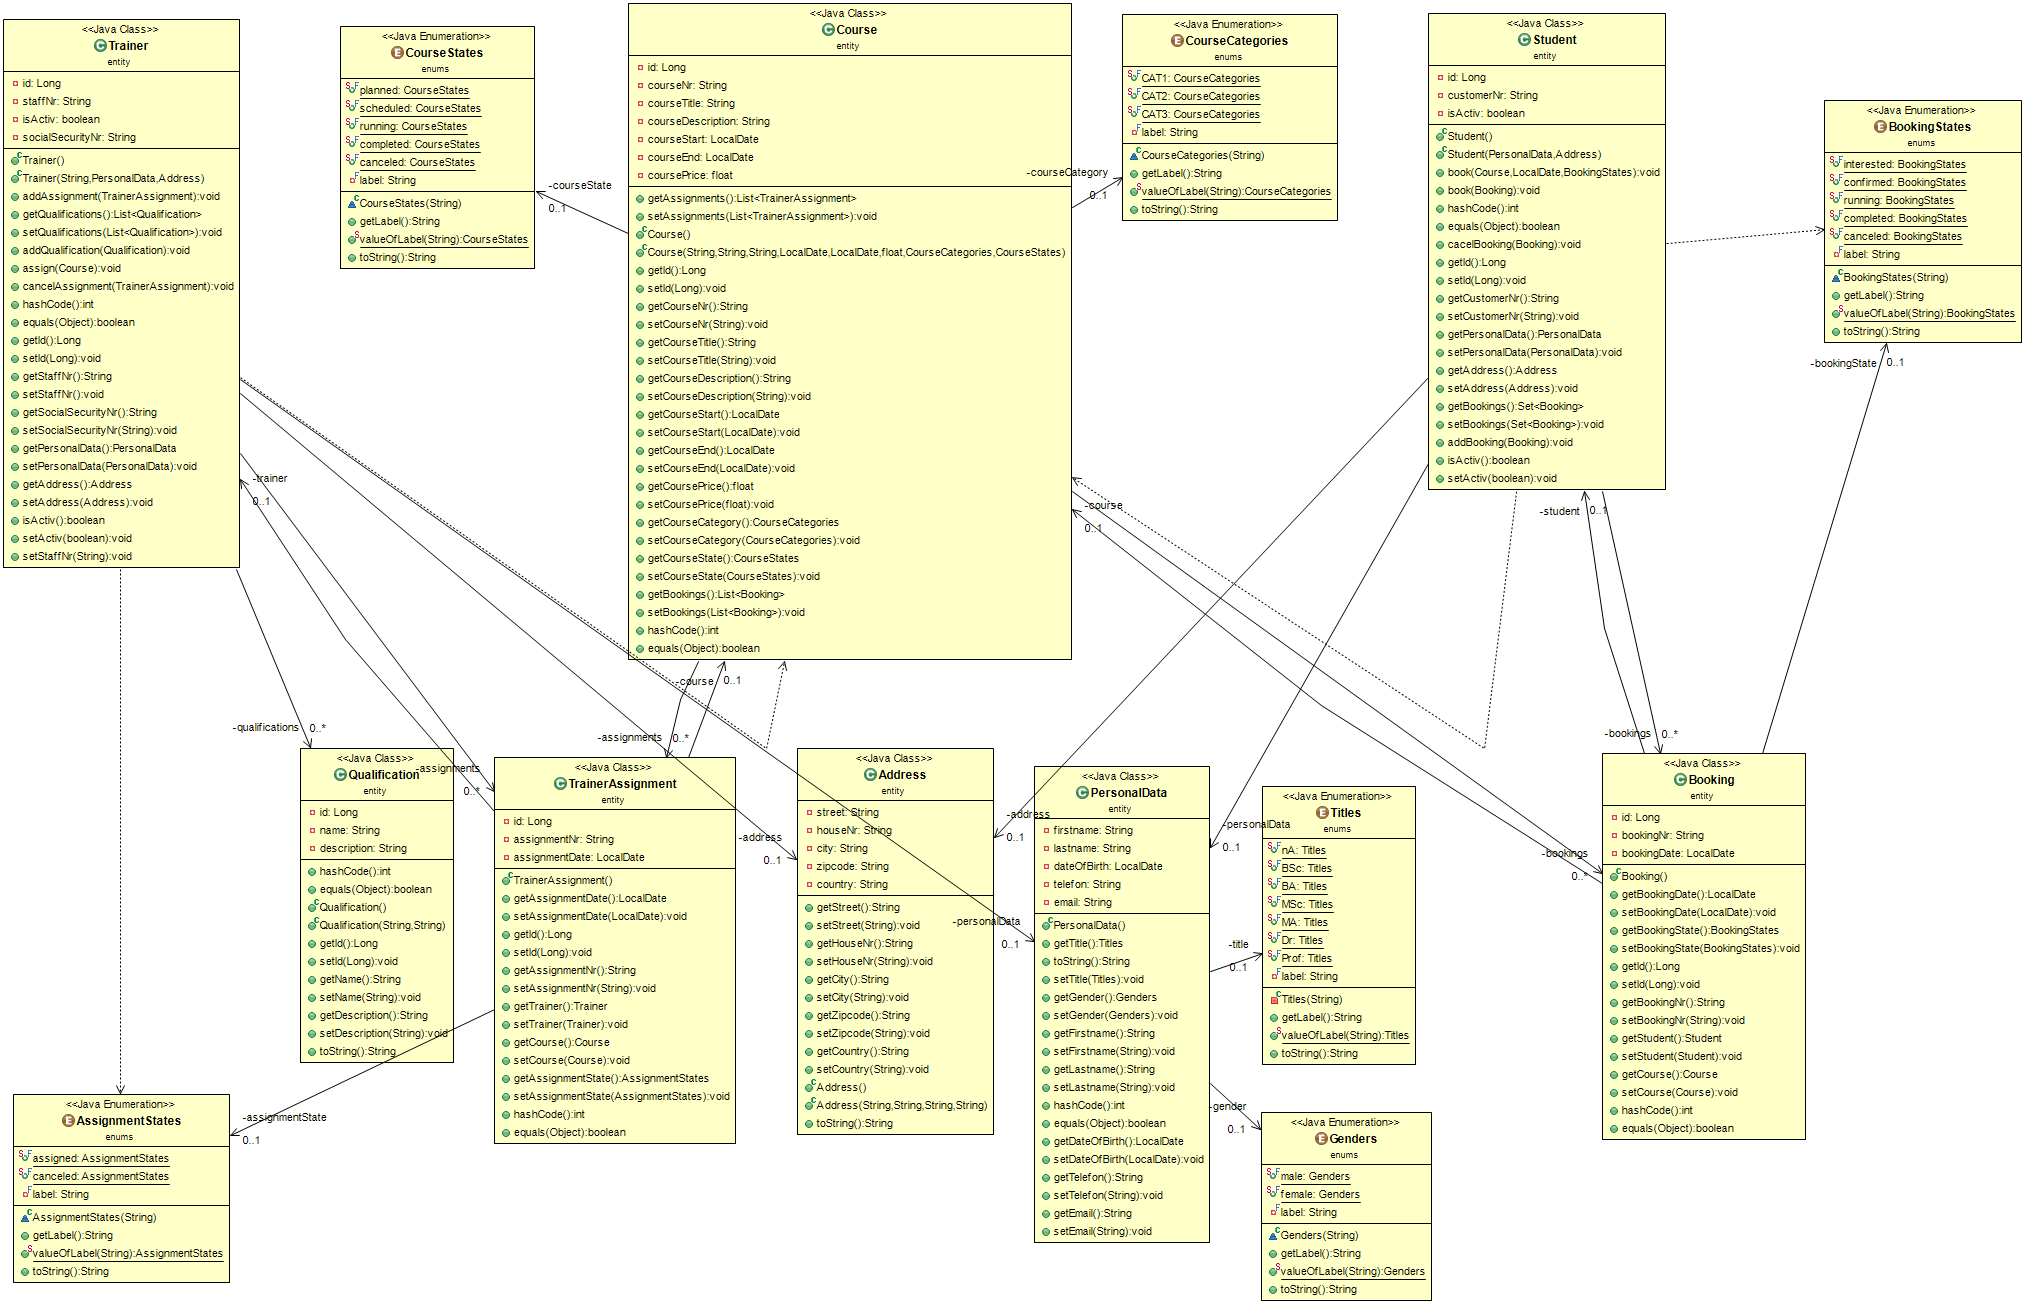
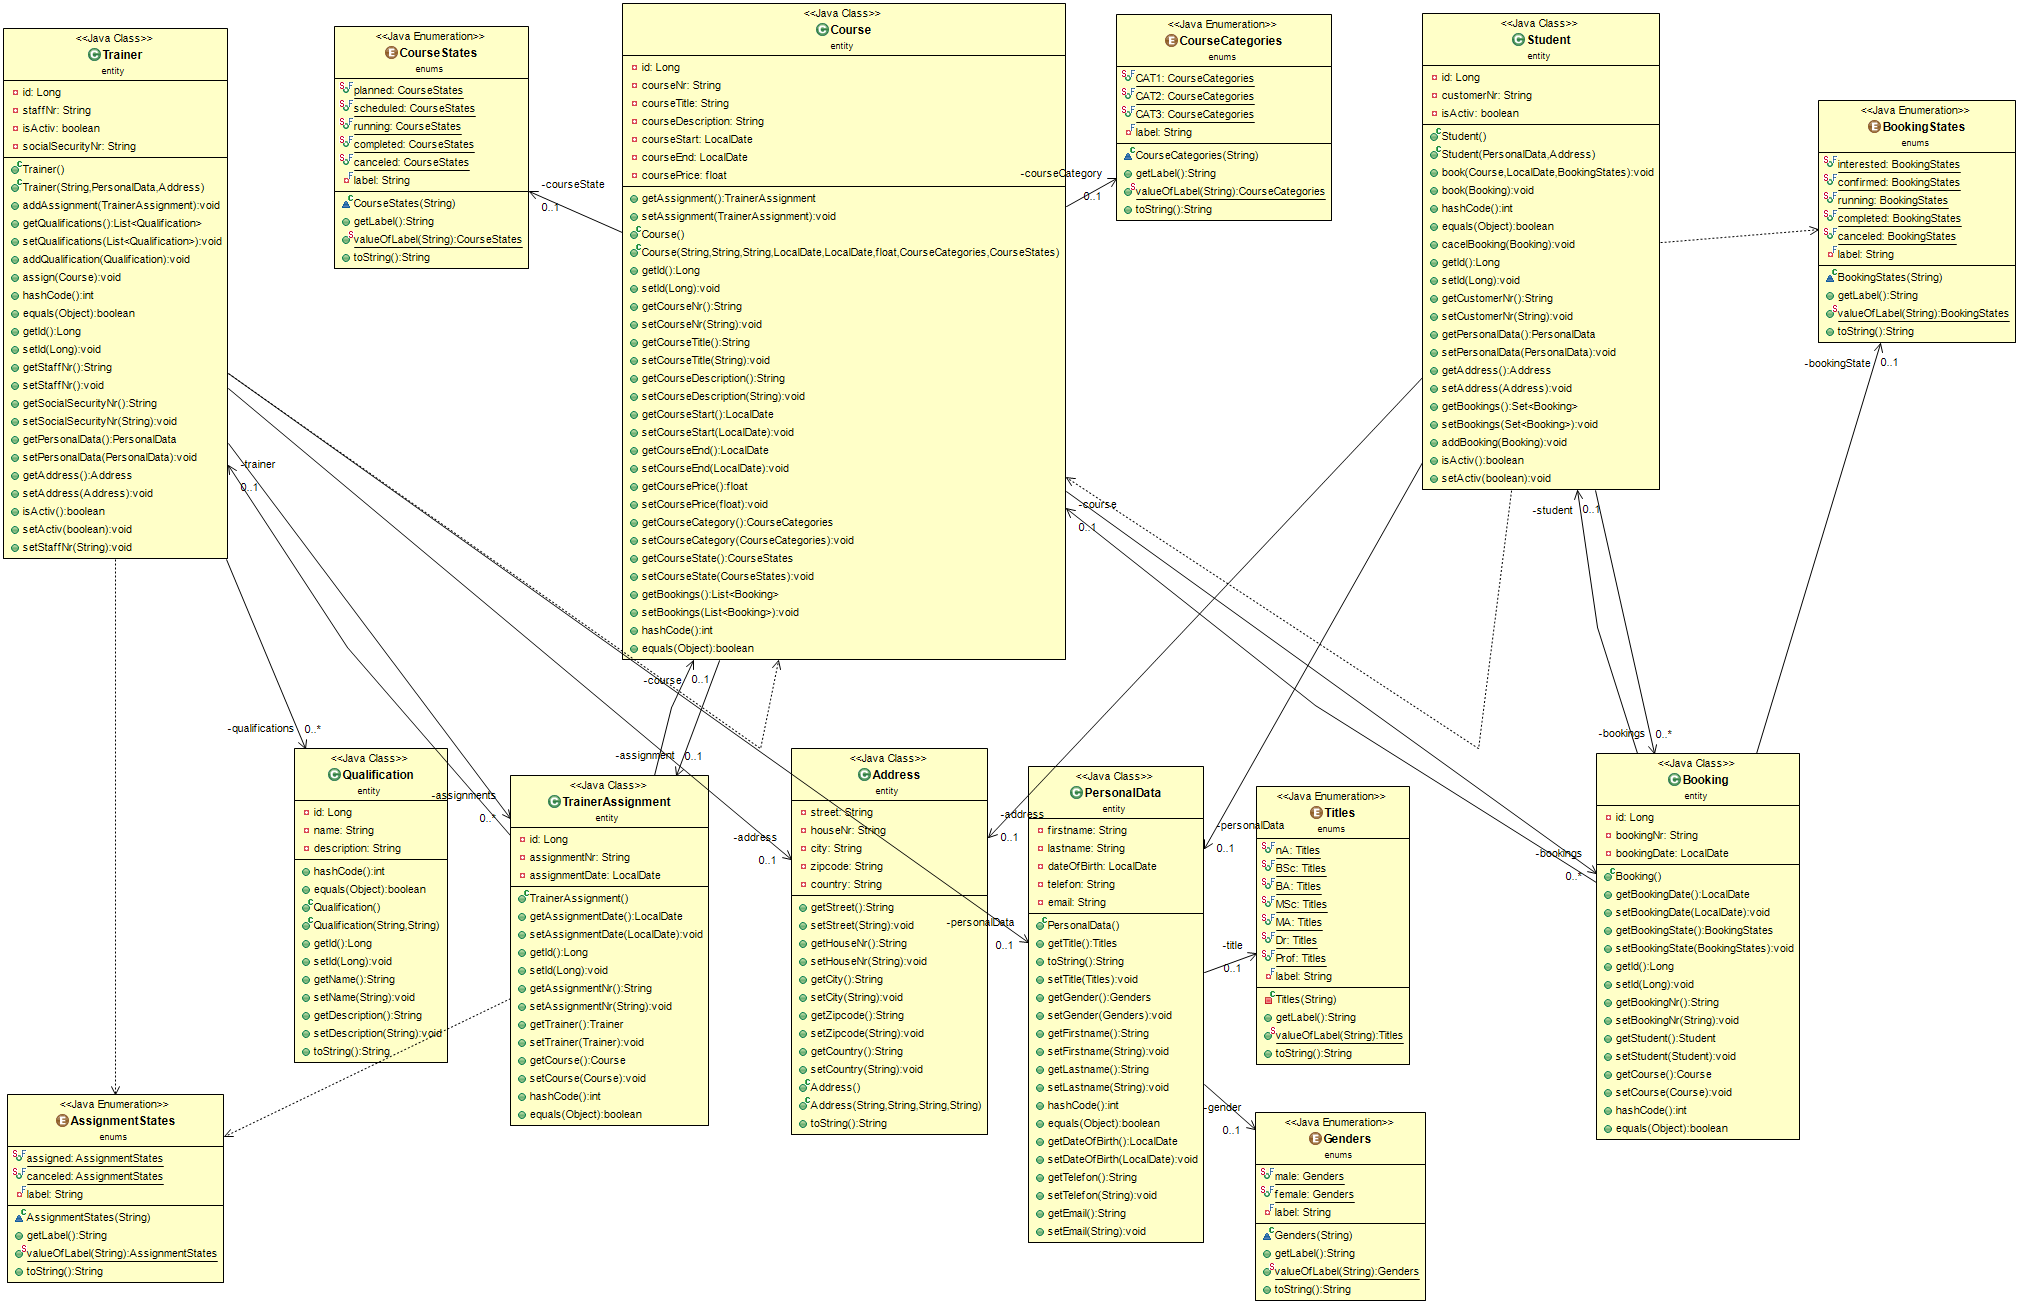
Ergänzungen bezüglich der Trainerzuordnungen. Kurs-Trainer Beziehung OneToOne Statt OneToMany

diff --git a/Finalproject JavaFX/src/application/AssignmentController.java b/Finalproject JavaFX/src/application/AssignmentController.java
@@ -51,7 +51,7 @@ public class AssignmentController implements Initializable{
     @FXML    private Label courseNrLabel;
     @FXML    private Label courseNameLabel;
     @FXML    private Label assignmentTrainerLabel;
-    @FXML    private ComboBox<AssignmentStates> assignmentStateComboBox;
+//    @FXML    private ComboBox<AssignmentStates> assignmentStateComboBox;
     @FXML    private TextField assignmentTrainerTextfield;
     @FXML    private TableView<Trainer> assignmentTrainerTableView;
     @FXML    private TableColumn<Trainer, String> trainerStaffNrCol;
@@ -70,7 +70,7 @@ public class AssignmentController implements Initializable{
     	currentCourse = course;
     	courseNrLabel.setText(currentCourse.getCourseNr());
     	courseNameLabel.setText(currentCourse.getCourseTitle());
-    	assignmentStateComboBox.setItems(assignmentStates);
+//    	assignmentStateComboBox.setItems(assignmentStates);
     	DAO trainerDAO = new DAO();
     	
     	assignmentTrainerTableViewData.setAll(trainerDAO.trainerList().filtered(t->t.isActiv()));
@@ -103,9 +103,67 @@ public class AssignmentController implements Initializable{
     	currentAssignment = assignment;
     	courseNrLabel.setText(currentAssignment.getCourse().getCourseNr());
     	courseNameLabel.setText(currentAssignment.getCourse().getCourseTitle());
-    	assignmentStateComboBox.setItems(assignmentStates);
-    	assignmentStateComboBox.setValue(currentAssignment.getAssignmentState());
-    	assignmentTrainerLabel.setText(currentAssignment.getTrainer().getPersonalData().getFirstname()+" "+ currentAssignment.getTrainer().getPersonalData().getLastname());
+//    	assignmentStateComboBox.setItems(assignmentStates);
+//    	assignmentStateComboBox.setValue(currentAssignment.getAssignmentState());
+    	DAO trainerDAO = new DAO();
+    	
+    	assignmentTrainerTableViewData.setAll(trainerDAO.trainerList().filtered(t->t.isActiv()));
+    	trainerStaffNrCol.setCellValueFactory(cellData -> new SimpleStringProperty(cellData.getValue().getStaffNr()));
+    	trainerFirstnameCol.setCellValueFactory(cellData -> new SimpleStringProperty(cellData.getValue().getPersonalData().getFirstname()));
+    	trainerLastnameCol.setCellValueFactory(cellData -> new SimpleStringProperty(cellData.getValue().getPersonalData().getLastname()));
+    	trainerBirthdayCol.setCellValueFactory(cellData -> new SimpleObjectProperty<LocalDate>(cellData.getValue().getPersonalData().getDateOfBirth()));
+    	trainerBirthdayCol.setCellFactory((TableColumn<Trainer, LocalDate> column) -> {
+			   return new TableCell<Trainer, LocalDate>() {
+			      @Override
+			      protected void updateItem(LocalDate item, boolean empty) {
+			         super.updateItem(item, empty);
+			         if (item == null || empty) {
+			            setText(null);
+			         } else {
+			            setText(item.format(DateTimeFormatter.ofPattern("dd.MM.yyyy")));
+			         }
+			      }
+			   };
+			});
+    	trainerPhoneCol.setCellValueFactory(cellData -> new SimpleStringProperty(cellData.getValue().getPersonalData().getTelefon()));
+    	assignmentTrainerTableView.getSelectionModel().select(assignment.getTrainer());
+		assignmentTrainerTableView.setItems(assignmentTrainerTableViewData);
+		assignmentTrainerTextfield.textProperty().addListener((observable, oldValue, newValue) ->
+		assignmentTrainerTableView.setItems(filteredTrainerList(assignmentTrainerTableViewData, newValue)));
+    }
+    
+    @FXML
+    public void removeAssignment(TrainerAssignment assignment) {
+    	currentAssignment = assignment;
+    	courseNrLabel.setText(currentAssignment.getCourse().getCourseNr());
+    	courseNameLabel.setText(currentAssignment.getCourse().getCourseTitle());
+//    	assignmentStateComboBox.setItems(assignmentStates);
+//    	assignmentStateComboBox.setValue(currentAssignment.getAssignmentState());
+    	DAO trainerDAO = new DAO();
+    	
+    	assignmentTrainerTableViewData.setAll(trainerDAO.trainerList().filtered(t->t.isActiv()));
+    	trainerStaffNrCol.setCellValueFactory(cellData -> new SimpleStringProperty(cellData.getValue().getStaffNr()));
+    	trainerFirstnameCol.setCellValueFactory(cellData -> new SimpleStringProperty(cellData.getValue().getPersonalData().getFirstname()));
+    	trainerLastnameCol.setCellValueFactory(cellData -> new SimpleStringProperty(cellData.getValue().getPersonalData().getLastname()));
+    	trainerBirthdayCol.setCellValueFactory(cellData -> new SimpleObjectProperty<LocalDate>(cellData.getValue().getPersonalData().getDateOfBirth()));
+    	trainerBirthdayCol.setCellFactory((TableColumn<Trainer, LocalDate> column) -> {
+			   return new TableCell<Trainer, LocalDate>() {
+			      @Override
+			      protected void updateItem(LocalDate item, boolean empty) {
+			         super.updateItem(item, empty);
+			         if (item == null || empty) {
+			            setText(null);
+			         } else {
+			            setText(item.format(DateTimeFormatter.ofPattern("dd.MM.yyyy")));
+			         }
+			      }
+			   };
+			});
+    	trainerPhoneCol.setCellValueFactory(cellData -> new SimpleStringProperty(cellData.getValue().getPersonalData().getTelefon()));
+    	assignmentTrainerTableView.getSelectionModel().select(assignment.getTrainer());
+		assignmentTrainerTableView.setItems(assignmentTrainerTableViewData);
+		assignmentTrainerTextfield.textProperty().addListener((observable, oldValue, newValue) ->
+		assignmentTrainerTableView.setItems(filteredTrainerList(assignmentTrainerTableViewData, newValue)));
     }
     
     
@@ -136,19 +194,19 @@ public class AssignmentController implements Initializable{
     void assignmentSaveButtonAction(ActionEvent event) {
     	try {
 
-    		if(!assignmentTrainerTableView.getSelectionModel().isEmpty()&&!assignmentStateComboBox.getSelectionModel().isEmpty()) {
+    		if(!assignmentTrainerTableView.getSelectionModel().isEmpty()) {
     			if(currentAssignment==null) {
     	    		TrainerAssignment newAssignment = new TrainerAssignment();
     	    		newAssignment.setCourse(currentCourse);
     	    		newAssignment.setTrainer(assignmentTrainerTableView.getSelectionModel().getSelectedItem());
-    	    		newAssignment.setAssignmentState(assignmentStateComboBox.getSelectionModel().getSelectedItem());
+//    	    		newAssignment.setAssignmentState(assignmentStateComboBox.getSelectionModel().getSelectedItem());
     	    		newAssignment.setAssignmentDate(LocalDate.now());;	
     	        	DAO.newTrainerAssignment(newAssignment);
     	    	} else {
     	    		
-    	    		currentAssignment.setCourse(currentCourse);
+    	    		//currentAssignment.setCourse(currentCourse);
     	    		currentAssignment.setTrainer(assignmentTrainerTableView.getSelectionModel().getSelectedItem());
-    	    		currentAssignment.setAssignmentState(assignmentStateComboBox.getSelectionModel().getSelectedItem());;
+//    	    		currentAssignment.setAssignmentState(assignmentStateComboBox.getSelectionModel().getSelectedItem());;
     	    		DAO.updateTrainerAssignment(currentAssignment);
     	    	}
     			
@@ -162,10 +220,10 @@ public class AssignmentController implements Initializable{
 					assignmentTrainerTableView.setStyle("-fx-border-color: #B22222; ");
 					alert.setContentText(alert.getContentText()+"Einen Trainer muss ausgewählt werden\n");
 				}
-				if(assignmentStateComboBox.getSelectionModel().isEmpty()) {
-					assignmentStateComboBox.setStyle("-fx-border-color: #B22222; ");
-					alert.setContentText(alert.getContentText()+"Auftragsstatus muss ausgewählt werden\n");
-				}
+//				if(assignmentStateComboBox.getSelectionModel().isEmpty()) {
+//					assignmentStateComboBox.setStyle("-fx-border-color: #B22222; ");
+//					alert.setContentText(alert.getContentText()+"Auftragsstatus muss ausgewählt werden\n");
+//				}
 				
 				
 				alert.getDialogPane().setMinHeight(Region.USE_PREF_SIZE);

diff --git a/Finalproject JavaFX/src/application/AssignmentEditController.java b/Finalproject JavaFX/src/application/AssignmentEditController.java
@@ -66,7 +66,7 @@ public class AssignmentEditController implements Initializable{
     	courseNrLabel.setText(currentAssignment.getCourse().getCourseNr());
     	courseNameLabel.setText(currentAssignment.getCourse().getCourseTitle());
     	assignmentStateComboBox.setItems(assignmentStates);
-    	assignmentStateComboBox.setValue(currentAssignment.getAssignmentState());
+//    	assignmentStateComboBox.setValue(currentAssignment.getAssignmentState());
     	assignmentTrainerLabel.setText(currentAssignment.getTrainer().getPersonalData().getFirstname()+" "+ currentAssignment.getTrainer().getPersonalData().getLastname());
     }
     
@@ -83,7 +83,7 @@ public class AssignmentEditController implements Initializable{
     	try {
 
     		if(!assignmentStateComboBox.getSelectionModel().isEmpty()) {
-    	    		currentAssignment.setAssignmentState(assignmentStateComboBox.getSelectionModel().getSelectedItem());;
+//    	    		currentAssignment.setAssignmentState(assignmentStateComboBox.getSelectionModel().getSelectedItem());;
     	    		DAO.updateTrainerAssignment(currentAssignment);
     	    	    			
     			Stage stage = (Stage) saveAssignmentButton.getScene().getWindow();

diff --git a/Finalproject JavaFX/src/entity/Course.java b/Finalproject JavaFX/src/entity/Course.java
@@ -13,6 +13,7 @@ import javax.persistence.GenerationType;
 import javax.persistence.Id;
 import javax.persistence.NamedQuery;
 import javax.persistence.OneToMany;
+import javax.persistence.OneToOne;
 
 import enums.CourseCategories;
 import enums.CourseStates;
@@ -51,20 +52,20 @@ public class Course {
 	@OneToMany(mappedBy = "course", cascade = { CascadeType.PERSIST, CascadeType.REMOVE })
 	private List<Booking> bookings;
 	
-	@OneToMany(mappedBy = "course", cascade = { CascadeType.PERSIST, CascadeType.REMOVE })
-	private List<TrainerAssignment> assignments;
+	@OneToOne(mappedBy = "course", cascade = { CascadeType.PERSIST, CascadeType.REMOVE })
+	private TrainerAssignment assignment;
 /**
 	 * @return the assignments
 	 */
-	public List<TrainerAssignment> getAssignments() {
-		return assignments;
+	public TrainerAssignment getAssignment() {
+		return assignment;
 	}
 
 	/**
 	 * @param assignments the assignments to set
 	 */
-	public void setAssignments(List<TrainerAssignment> assignments) {
-		this.assignments = assignments;
+	public void setAssignment(TrainerAssignment assignment) {
+		this.assignment = assignment;
 	}
 
 	//	

diff --git a/Finalproject JavaFX/src/application/DAO.java b/Finalproject JavaFX/src/application/DAO.java
@@ -712,6 +712,29 @@ public class DAO {
 		
 	}
 	
+	public static void removeTrainerAssignment(TrainerAssignment trainerAssignment) throws SQLException {
+		EntityManagerFactory emf = Persistence.createEntityManagerFactory("verwasoft");
+		EntityManager em = emf.createEntityManager();
+		EntityTransaction txn = em.getTransaction();
+		//Booking newBooking = ;
+		
+		try {
+			txn.begin();
+			TrainerAssignment assignment = em.find(TrainerAssignment.class, trainerAssignment.getId());
+			em.remove(assignment);
+			
+			txn.commit();
+			
+		}	catch(Exception e) {
+    			if(txn != null) { txn.rollback(); }
+    			e.printStackTrace();
+		}	finally {
+				if(em != null) { em.close(); }
+		}
+		
+		
+	}
+	
 	public static void newTrainerAssignment(TrainerAssignment newTrainerAssignment) throws SQLException {
 		EntityManagerFactory emf = Persistence.createEntityManagerFactory("verwasoft");
 		EntityManager em = emf.createEntityManager();
